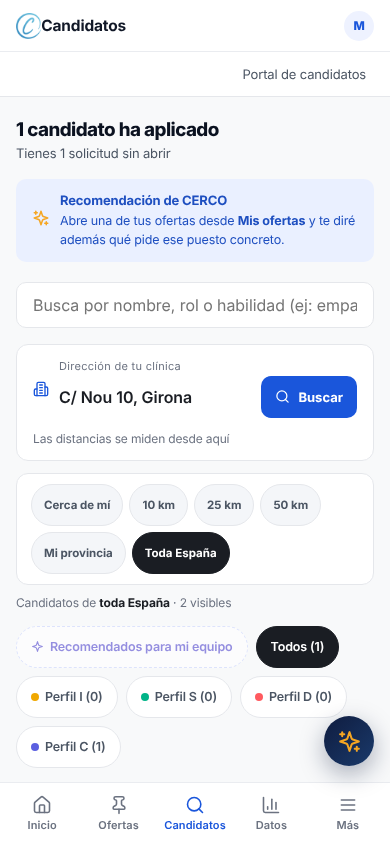
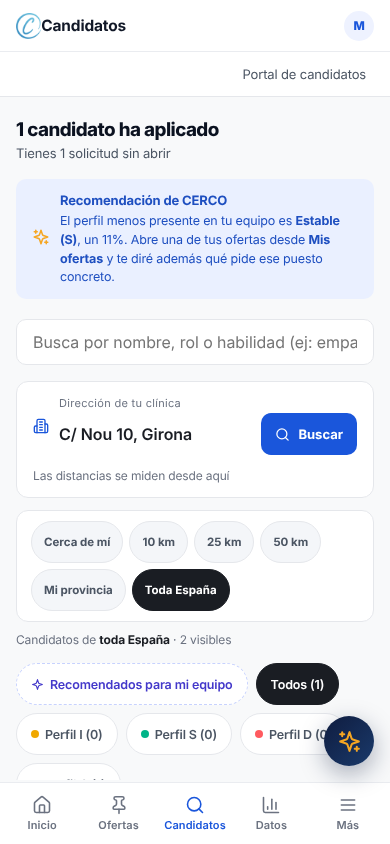
Quien se contrata en CERCO pasa a «Mi equipo» con su perfil DISC
Al contratar, la persona entra en Mi equipo con el perfil de su test, el
puesto de la oferta y la etiqueta «Contratación en CERCO», y cuenta en las
estadísticas del equipo. Una sola vez: la solicitud queda marcada
(alEquipo) y, si la clínica la quita del equipo, no vuelve. Si ya hay
alguien con ese nombre (por ejemplo, hizo el test con el enlace), no se
repite. Las contrataciones de antes también pasan solas al entrar.

Pruebas nuevas: 6d en el recorrido (entra, una vez, cuenta en
Estadísticas, quitarla y no vuelve) y en 61-estadisticas (una
contratación de antes pasa sola). Fallaban antes. Captura de
«Contratados» actualizada: la recomendación ya cuenta con ella.

Claude-Session: https://claude.ai/code/session_01L5qSpH5ECCjMh1xfSpjWDJ

diff --git a/pruebas/e2e/61-estadisticas.spec.js b/pruebas/e2e/61-estadisticas.spec.js
@@ -1,6 +1,6 @@
 // Estadísticas de la clínica: «Me interesa» cuenta como contestada y las
 // contrataciones se ven siempre, aunque el equipo aún no tenga tests.
-const { test, expect, nuevaVentana, vaciarEmulador } = require('../apoyo/entorno');
+const { test, expect, nuevaVentana, vaciarEmulador, FIRESTORE, PROYECTO } = require('../apoyo/entorno');
 const A = require('../apoyo/acciones');
 
 const OFERTA = (titulo) => ({ titulo, municipio: 'Girona', jornada: 'Completa · 40 h/semana', salarioMin: '22000', salarioMax: '26000',
@@ -66,6 +66,33 @@ test('Estadísticas: «Me interesa» cuenta como contestada y las contrataciones
   await expect(c.locator('#screen-stats')).toContainText('Falta la parte de tu equipo');
   await expect(cifras.locator('.mk-kpi', { hasText: 'contratación' })).toContainText('1');
 
+  // Contratación de antes (como las que se hicieron antes de este cambio): sin pasar al equipo
+  const base = `http://${FIRESTORE.host}:${FIRESTORE.port}/v1/projects/${PROYECTO}/databases/(default)/documents`;
+  const miembrosCerco = async () => {
+    const r = await (await fetch(`${base}/clinicas`, { headers: { Authorization: 'Bearer owner' } })).json();
+    let n = 0;
+    for (const d of r.documents || []) {
+      const e = await (await fetch(`http://${FIRESTORE.host}:${FIRESTORE.port}/v1/${d.name}/equipo`, { headers: { Authorization: 'Bearer owner' } })).json();
+      n += (e.documents || []).filter((x) => x.fields.origen && x.fields.origen.stringValue === 'cerco').length;
+    }
+    return n;
+  };
+  await expect.poll(miembrosCerco, { timeout: 30_000 }).toBe(1); // al contratar pasó al equipo
+  await c.evaluate(async () => {
+    const db = firebase.firestore(), uid = firebase.auth().currentUser.uid;
+    const eq = await db.collection('clinicas').doc(uid).collection('equipo').get();
+    for (const d of eq.docs) if ((d.data() || {}).origen === 'cerco') await d.ref.delete();
+    const x = CERCO_candidaturas().find((x) => x.estado === 'contratada');
+    await db.collection('candidaturas').doc(x.id).update({ alEquipo: firebase.firestore.FieldValue.delete() });
+  });
+  await expect.poll(miembrosCerco, { timeout: 30_000 }).toBe(0);
+  await expect.poll(async () => {
+    const r = await (await fetch(`${base}/candidaturas`, { headers: { Authorization: 'Bearer owner' } })).json();
+    return (r.documents || []).some((d) => d.fields.estado.stringValue === 'contratada' && d.fields.alEquipo);
+  }, { timeout: 30_000 }).toBe(false);
+  expect(c.erroresPagina).toEqual([]);
+  await vc.context.close();
+
   // Mis ofertas, desde otro ordenador: cada oferta dice cuántos candidatos tiene de verdad
   // (antes salía «0 candidatos» en las ofertas cuyo número no se había subido a la nube)
   const vo = await nuevaVentana(browser, testInfo), o = vo.page;
@@ -78,8 +105,13 @@ test('Estadísticas: «Me interesa» cuenta como contestada y las contrataciones
   await expect.poll(() => o.locator('#screen-ofertes .offer-card:not(.ejemplo)').locator('visible=true').allInnerTexts()
     .then((l) => l.map((t) => (t.match(/Higienista [AB]/) || [''])[0] + ': ' + (t.match(/\d+ candidatos?/) || [''])[0]).sort()), { timeout: 20_000 })
     .toEqual(['Higienista A: 1 candidato', 'Higienista B: 1 candidato']);
+  // La contratación de antes pasa sola a «Mi equipo», con su perfil y el puesto
+  await o.evaluate(() => showScreen('equipo'));
+  const fila = o.locator('#screen-equipo .miembro-row', { hasText: 'Laura Prueba' }).locator('visible=true');
+  await expect(fila).toHaveCount(1, { timeout: 20_000 });
+  await expect(fila).toContainText('Contratación en CERCO');
+  await expect(fila).toContainText('Higienista A');
 
-  expect(c.erroresPagina).toEqual([]);
   expect(o.erroresPagina).toEqual([]);
-  await vc.context.close(); await vp.context.close(); await vo.context.close();
+  await vp.context.close(); await vo.context.close();
 });

diff --git a/pruebas/e2e/10-recorrido.spec.js b/pruebas/e2e/10-recorrido.spec.js
@@ -14,7 +14,7 @@
 // Hay tres ventanas a la vez, cada una con su sesión: la clínica (ventana
 // normal), la profesional (como una ventana de incógnito) y el trabajador.
 // Se ejecuta dos veces: ordenador (1400 px) y móvil (390 px).
-const { test, expect, nuevaVentana, capturar, vaciarEmulador } = require('../apoyo/entorno');
+const { test, expect, nuevaVentana, capturar, vaciarEmulador, FIRESTORE, PROYECTO } = require('../apoyo/entorno');
 const A = require('../apoyo/acciones');
 
 // Comprueba que un texto se ve en pantalla (el primero visible, si sale varias veces)
@@ -451,6 +451,43 @@ test('6c. Agenda: pulsando en cualquier parte de la entrevista se abre la ficha'
   await c.locator('#agenda-box .ag-it', { hasText: 'Laura Prueba' }).locator('visible=true').first().getByRole('button', { name: 'Apple u Outlook' }).click();
   await descarga;
   await expect(c.locator('#screen-agenda')).toBeVisible();
+});
+
+test('6d. Quien se contrata pasa a «Mi equipo» con su perfil DISC, y si se quita no vuelve', async () => {
+  const c = clinica.page;
+  await c.evaluate(() => showScreen('equipo'));
+  const fila = c.locator('#screen-equipo .miembro-row', { hasText: 'Laura Prueba' }).locator('visible=true').first();
+  await expect(fila).toBeVisible();
+  await expect(fila).toContainText('Contratación en CERCO');
+  await expect(fila).toContainText('Higienista dental'); // el puesto de la oferta
+  await expect(fila.locator('.mini-disc')).toHaveText('C'); // su perfil principal, el de su test
+  // Una sola vez, aunque tenga dos solicitudes
+  await expect(c.locator('#screen-equipo .miembro-row', { hasText: 'Laura Prueba' }).locator('visible=true')).toHaveCount(1);
+  // Cuenta en Estadísticas, como el resto del equipo
+  await c.evaluate(() => showScreen('stats'));
+  await expect(c.locator('#screen-stats')).toContainText('Laura Prueba');
+  // Si la clínica la quita del equipo, no vuelve a aparecer (ni al recargar)
+  await c.evaluate(() => showScreen('equipo'));
+  await expect.poll(() => c.evaluate(() => (CDB.equipo().find((m) => m.origen === 'cerco') || {}).id || '')).toMatch(/^CERCO-/); // ya viene de la nube
+  await c.evaluate(() => borrarMiembro(CDB.equipo().find((m) => m.origen === 'cerco').id));
+  await expect(c.locator('#screen-equipo .miembro-row', { hasText: 'Laura Prueba' }).locator('visible=true')).toHaveCount(0);
+  // Se espera a que el borrado llegue de verdad a la nube (mirándola desde fuera) antes de recargar
+  const equipoEnLaNube = async () => {
+    const r = await (await fetch(`http://${FIRESTORE.host}:${FIRESTORE.port}/v1/projects/${PROYECTO}/databases/(default)/documents/clinicas`, { headers: { Authorization: 'Bearer owner' } })).json();
+    const nombres = [];
+    for (const d of r.documents || []) {
+      const e = await (await fetch(`http://${FIRESTORE.host}:${FIRESTORE.port}/v1/${d.name}/equipo`, { headers: { Authorization: 'Bearer owner' } })).json();
+      for (const x of e.documents || []) nombres.push(x.fields.nombre.stringValue);
+    }
+    return nombres;
+  };
+  await expect.poll(equipoEnLaNube, { timeout: 30_000 }).not.toContain('Laura Prueba');
+  await c.reload();
+  await expect(c.locator('#screen-inicio')).toBeVisible();
+  await c.waitForTimeout(3000);
+  await c.evaluate(() => showScreen('equipo'));
+  await expect(c.locator('#screen-equipo .miembro-row', { hasText: 'Laura Prueba' }).locator('visible=true')).toHaveCount(0);
+  expect(c.erroresPagina).toEqual([]);
 });
 
 test('7. El resto de pantallas de la clínica se ven bien y sin errores', async () => {

diff --git a/public/clinica/04-clinica-y-candidato.js b/public/clinica/04-clinica-y-candidato.js
@@ -418,6 +418,32 @@
   }
 
   /* ---------- cifras: contratados ---------- */
+  /* Quien se contrata en CERCO pasa a «Mi equipo», con el perfil DISC de su test y el puesto
+     de la oferta. Una sola vez: la solicitud queda marcada (alEquipo) y, si después se quita
+     del equipo, no vuelve. Si ya hay alguien con ese nombre en el equipo (por ejemplo, hizo el
+     test con el enlace), no se repite. También pasan las contrataciones de antes. */
+  var _alEquipoEnCurso = {};
+  function nomNorm(t){ return String(t || '').toLowerCase().normalize('NFD').replace(/[\u0300-\u036f]/g, '').replace(/\s+/g, ' ').trim(); }
+  function pasarAlEquipo(c){
+    if(!c || c.estado !== 'contratada' || c.alEquipo || !c.disc || !c.disc.dom || _alEquipoEnCurso[c.id]) return;
+    try{ if(CDB.demo() || !Nube.activa) return; }catch(x){ return; }
+    _alEquipoEnCurso[c.id] = 1;
+    var n = nomNorm(c.nombre), eq = CDB.equipo();
+    var ya = eq.some(function(m){ return m.candidaturaId === c.id || (n && nomNorm(m.nombre) === n); })
+          || (CDB.miDisc() && n && nomNorm(CDB.clinica().nomResp) === n);
+    if(!ya){
+      var norm = c.disc.norm || {};
+      CDB.addMiembro({ nombre:c.nombre || 'Sin nombre', rol:c.ofertaTitulo || c.profesion || 'Sin puesto',
+        dom:c.disc.dom, sec:c.disc.sec || '', pct:norm[c.disc.dom] || 0,
+        codigo:'CERCO-' + String(c.id).replace(/[^A-Za-z0-9]/g, '').slice(-10), origen:'cerco', candidaturaId:c.id });
+    }
+    Nube.db().collection('candidaturas').doc(c.id).update({ alEquipo:true }).then(function(){
+      var l = lista(); l.forEach(function(x){ if(x.id === c.id) x.alEquipo = true; }); guardarLista(l);
+    }).catch(function(){ delete _alEquipoEnCurso[c.id]; });
+    try{ CDB.renderTodo(); }catch(x){}
+  }
+  // La usan _escucharCandidaturas (clinica/02-solicitudes-reales.js) y CERCO_trasContratar (clinica/14-correo-contrato-acogida.js)
+  window.CERCO_contratadosAlEquipo = function(){ lista().forEach(pasarAlEquipo); };
   window.CERCO_contarContratados = function(){ return lista().filter(function(c){ return c.estado === 'contratada'; }).length; }; // la usa CDB.resumen (clinica/01g-datos-de-la-clinica.js)
   try{ CDB.renderTodo(); }catch(x){}
 })();

diff --git a/public/clinica/01g-datos-de-la-clinica.js b/public/clinica/01g-datos-de-la-clinica.js
@@ -584,6 +584,7 @@ function _filaMiembro(m, conBorrar){
        + '<div style="font-size:11.5px;color:#6B7280;display:flex;align-items:center;gap:6px;flex-wrap:wrap;">'
        + '<span>'+_esc(m.rol||'Sin rol')+'</span>'
        + _xipPerfil(m.dom, true) + _xipPerfil(m.sec, false)
+       + (m.origen === 'cerco' ? '<span class="xip-cerco" style="font-size:10.5px;font-weight:700;color:#065F46;background:#ECFDF5;border-radius:99px;padding:2px 8px;">Contratación en CERCO</span>' : '')
        + '</div></div>'
        + (conBorrar && !m.yo
           ? '<button onclick="borrarMiembro(\''+m.id+'\')" title="Quitar" style="background:none;border:none;cursor:pointer;padding:6px;border-radius:6px;">'+_svg(ICO.trash,'#C3CBD9',15)+'</button>'

diff --git a/public/clinica/14-correo-contrato-acogida.js b/public/clinica/14-correo-contrato-acogida.js
@@ -235,6 +235,7 @@
   /* ---------------- 2. al contratar, a «Contratados» ---------------- */
   window.CERCO_trasContratar = function(id){
     var c = buscar(id), nom = c ? primer(c.nombre) : '';
+    try{ if(window.CERCO_contratadosAlEquipo) CERCO_contratadosAlEquipo(); }catch(x){}
     try{ CERCO_verEtapa('contr'); }catch(x){ try{ cerrarFichaCandidato(); }catch(y){} }
     setTimeout(function(){
       var card = document.querySelector('.cand-real[data-id="' + (window.CSS && CSS.escape ? CSS.escape(id) : id) + '"]');

diff --git a/public/clinica/01h-nube.js b/public/clinica/01h-nube.js
@@ -155,6 +155,8 @@ window.Nube = {
       codigo: String(m.codigo||'').slice(0,16),
       fecha:  new Date().toISOString()
     };
+    // quien se contrató en CERCO (clinica/04-clinica-y-candidato.js)
+    if(m.origen === 'cerco'){ doc.origen = 'cerco'; doc.candidaturaId = String(m.candidaturaId || '').slice(0,200); }
     return d.collection('clinicas').doc(cid).collection('equipo').doc(doc.codigo || String(Date.now()))
       .set(doc).then(function(){ return true; }).catch(function(){ return false; });
   },

diff --git a/public/clinica/02-solicitudes-reales.js b/public/clinica/02-solicitudes-reales.js
@@ -180,6 +180,7 @@
         if(ret.length && typeof showToast === 'function') showToast((ret[0].nombre||'Un candidato') + ' ha retirado su solicitud');
       }
       _primera = false;
+      try{ if(window.CERCO_contratadosAlEquipo) CERCO_contratadosAlEquipo(); }catch(x){}
       try{ CDB.renderTodo(); }catch(x){}
       try{ if(typeof pintarOfertasReales === 'function') pintarOfertasReales(); }catch(x){}
     });
